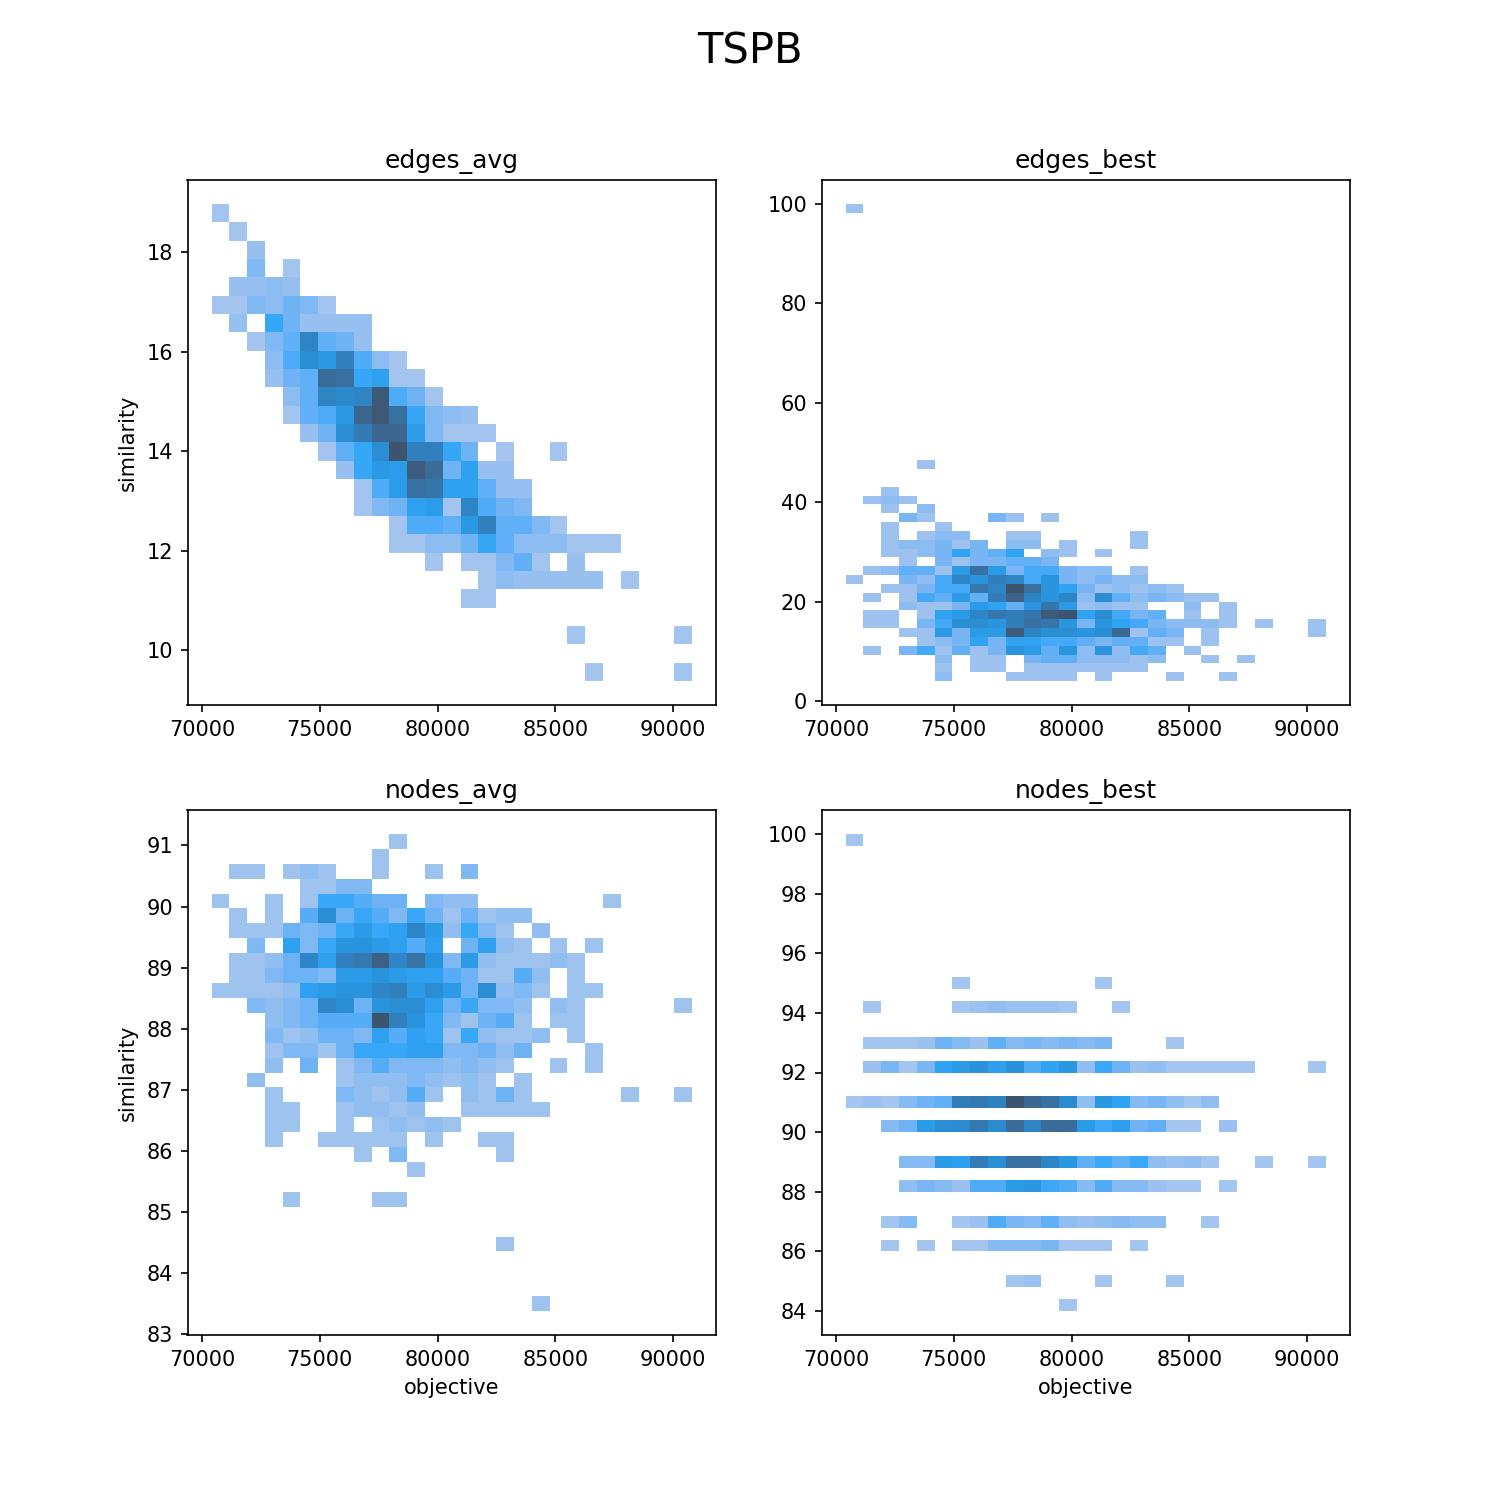
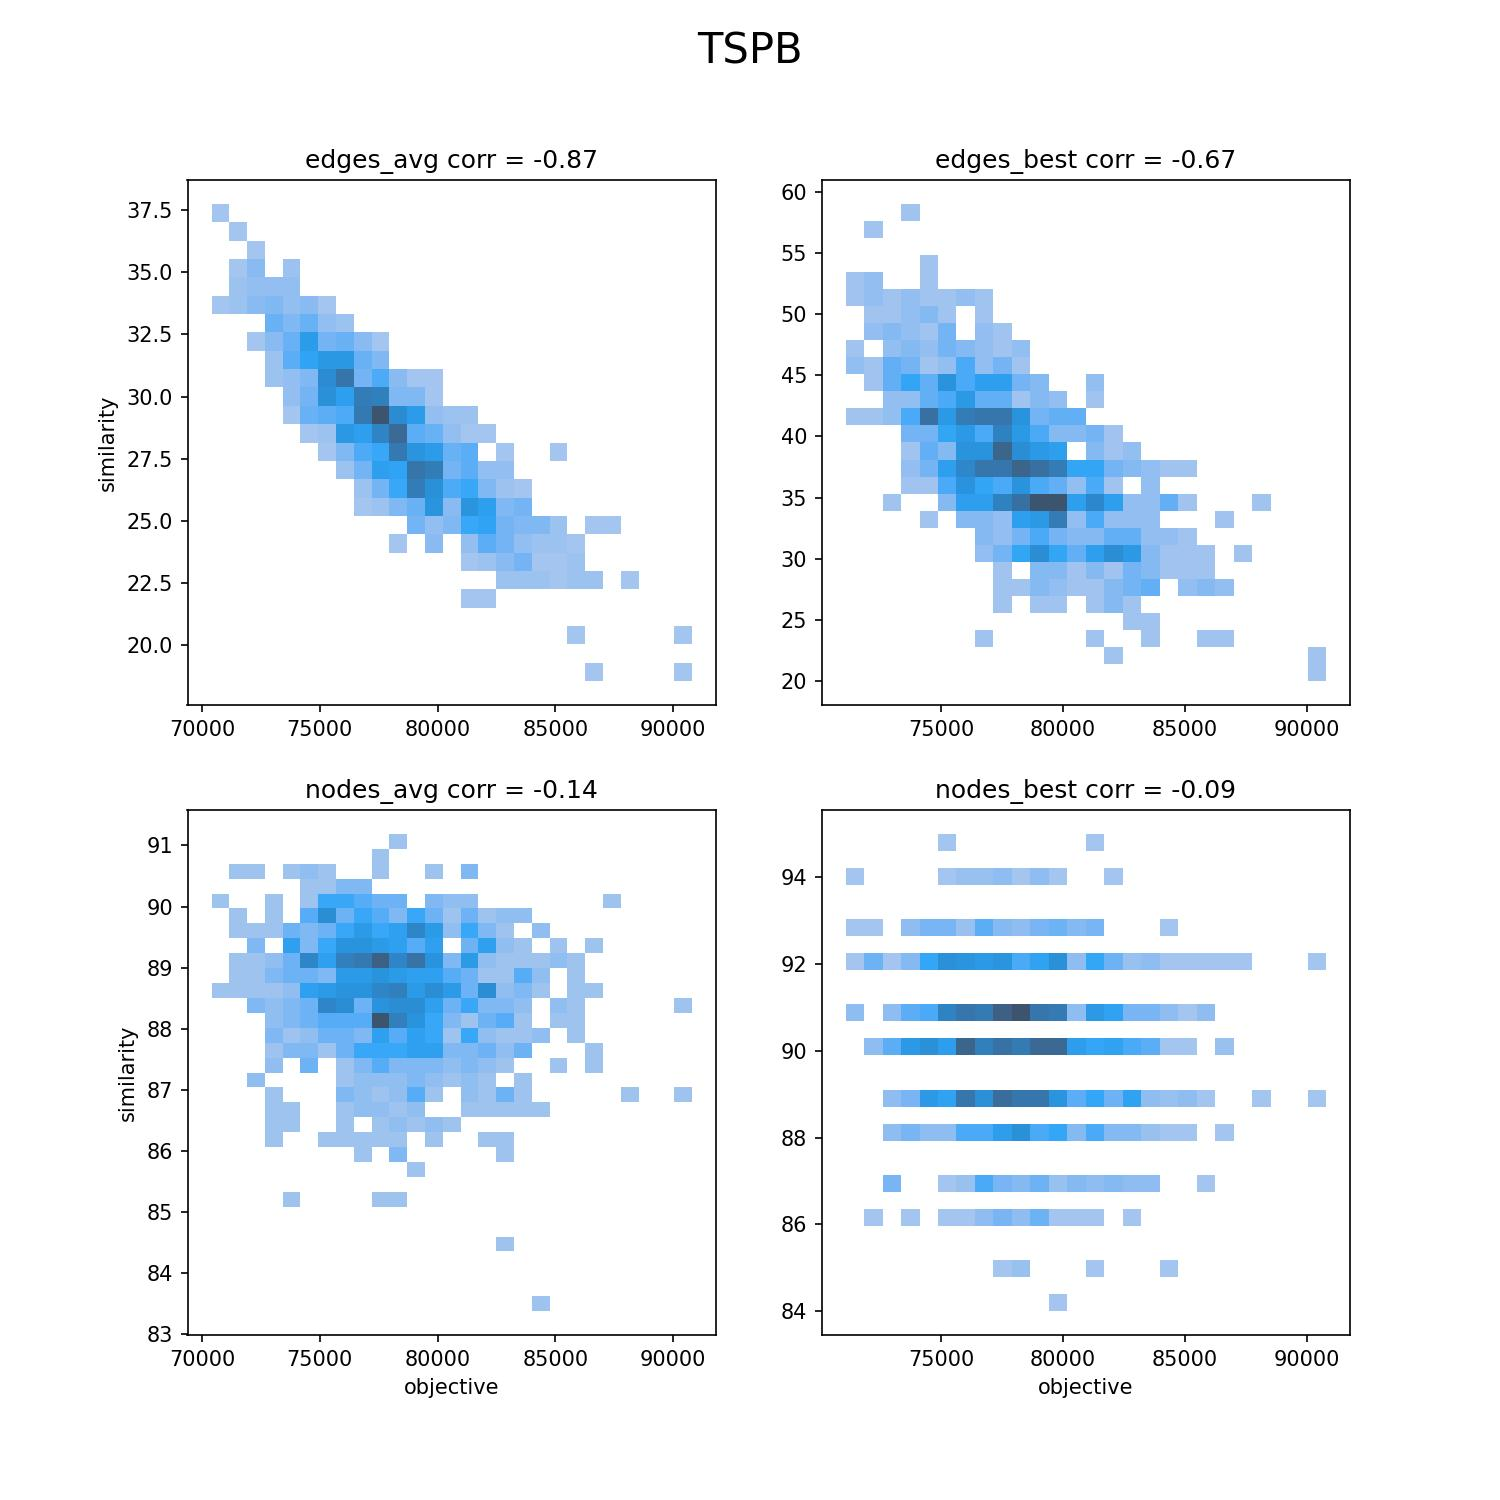
updated Lab 8 plotting scipt and plots

diff --git a/lab8/plot_similarities.py b/lab8/plot_similarities.py
@@ -14,11 +14,17 @@ outputPath =  os.path.join("./plots/")
 for instancePath in glob(os.path.join(similaritiesPath, "*")):
     instanceName = instancePath.split('/')[-1]
     # Read similarities
-    similarityNames, objectives, similarities = [], [], []
+    similarityNames, objectives, similarities, correlations = [], [], [], []
     for similaritiesPath in sorted(glob(os.path.join(instancePath, "*.csv"))):
-        similarityNames.append(similaritiesPath.split('/')[-1].split('.')[0])
-        
         sim = pd.read_csv(similaritiesPath)
+        
+        similarityName = similaritiesPath.split('/')[-1].split('.')[0]
+        correlation = sim['Objective'].corr(sim['Similarity'], method='pearson')
+        similarityNames.append(f"{similarityName} corr = {round(correlation, 2)}")
+        # Remove similarity of best to best (100%)
+        if "best" in similarityNames[-1]:
+            sim = sim[sim['Similarity'] != sim['Similarity'].max()]
+            
         objectives.append(sim['Objective'].to_numpy())
         similarities.append(sim['Similarity'].to_numpy())
     # Make plot
